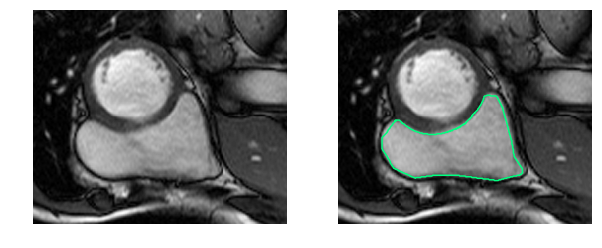
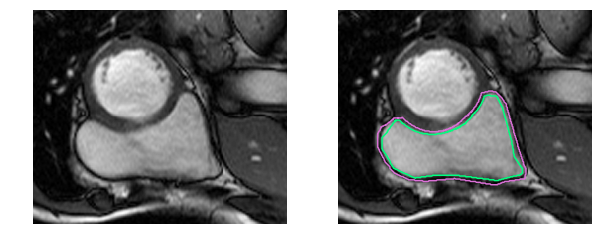
Add boxplots / validation edge cases / formatting.

diff --git a/style.scss b/style.scss
@@ -42,6 +42,7 @@ h1, h2, h3, h4, h5, h6 {
 
   @include mobile {
     line-height: 1.4;
+    text-align: left;
   }
 }
 

diff --git a/_posts/2017-08-22-cardiac-segmentation.md b/_posts/2017-08-22-cardiac-segmentation.md
@@ -42,7 +42,8 @@ ventricle (RV) is more challenging, because of:
 Medical jargon aside, it's just more difficult to identify the RV. The left
 ventricle is a thick-walled circle while the right ventricle is an irregularly
 shaped object with thin walls that sometimes blends in with the surrounding
-tissue:
+tissue. Here are the manually drawn contours for the inner and outer walls
+(endocardium and epicardium) of the right ventricle:
 
 ![data-easy](/images/data-easy.png)
 
@@ -183,7 +184,7 @@ Schematically, we replace the convolutional layers producing the feature maps
 marked in yellow with dilated convolutions in our u-net. The innermost neurons
 now have receptive fields spanning the entire input image.
 
-## Dilated densenets: looking at multiple scales at once
+## Dilated densenets: multiple scales at once
 
 The final architecture we considered is a "dilated densenet". The idea is
 simple: combine dilated convolutions with a dense convolutional network
@@ -215,7 +216,8 @@ image down into small feature maps to generate high-level representations.
 Rather, it retains the same feature map size throughout (we use zero padding),
 and relies on dilated convolutions. In the final convolutional layer, the
 neurons have access to global context as well as features produced at every
-prior scale in the network. In our work, we use an 8-layer dilated densenet.
+prior scale in the network. In our work, we use an 8-layer dilated densenet and
+vary the growth rate from 12 to 32.
 
 Let's see how these architectures perform when segmenting right ventricles.
 
@@ -250,7 +252,7 @@ Rounding isn't a differentiable operation and cannot be used as a loss
 function. We use the usual "hard" dice coefficient to report the classification
 performance.
 
-In our training experiments, we varied the following hyperparameters:
+In our training runs, we varied the following hyperparameters:
 * Batch normalization
 * Dropout
 * Learning rate
@@ -258,39 +260,111 @@ In our training experiments, we varied the following hyperparameters:
 
 ## Results
 
-The dilated densenet performed the best, reaching a dice coefficient of 0.87 on
-the validation dataset with only 190K parameters. The results are summarized
-below:
+We estimated human-level performance to be about 0.95 by looking at the quality
+of the provided manual segmentation contours. The leading published model is a
+fully convolutional network (FCN) by Tran
+[[7](https://arxiv.org/abs/1604.00494)] with 0.84 accuracy on the test set. The
+u-net base model performs well, the dilated u-net does better, and the dilated
+densenet performs the best, reaching a dice coefficient of 0.87 on the
+validation dataset with only 190K parameters.
+
+The dice coefficients, along with their uncertainties in parentheses, are
+summarized in the following table. For the endocardium:
 
 | **Method**       | **Train**   | **Val**     | **Test**    | **Params** |
 | :--------------- | :---------- | :---------- | :-------    | :--------- |
 | Human            | 0.95 (0.05) | --          | --          | --         |
-| FCN (published)  | --          | --          | 0.84 (0.21) | ~11M       |
-| U-net            | 0.91 (0.06) | 0.82 (0.23) |             | 1.9M       |
-| Dilated u-net    | 0.92 (0.08) | 0.85 (0.19) |             | 3.7M       |
-| Dilated densenet | 0.91 (0.10) | 0.87 (0.15) |             | 0.19M      |
+| FCN (Tran 2017)  | --          | --          | 0.84 (0.21) | ~11M       |
+| U-net            | 0.91 (0.06) | 0.82 (0.23) | TBD         | 1.9M       |
+| Dilated u-net    | 0.92 (0.08) | 0.85 (0.19) | TBD         | 3.7M       |
+| Dilated densenet | 0.91 (0.10) | 0.87 (0.15) | TBD         | 0.19M      |
+
+For the epicardium:
+
+| **Method**       | **Train**   | **Val**     | **Test**    | **Params** |
+| :--------------- | :---------- | :---------- | :-------    | :--------- |
+| Human            | 0.95 (0.05) | --          | --          | --         |
+| FCN (Tran 2017)  | --          | --          | 0.86 (0.20) | ~11M       |
+| U-net            | 0.93 (0.07) | 0.86 (0.17) | TBD         | 1.9M       |
+| Dilated u-net    | 0.94 (0.05) | 0.90 (0.14) | TBD         | 3.7M       |
+| Dilated densenet | 0.94 (0.04) | 0.89 (0.15) | TBD         | 0.19M      |
+
+Typical learning curves are shown below. For all architectures, we used the
+adam optimizer with the default initial learning rate of $$10^{-3}$$ and
+trained for 500 epochs. Each image in the dataset was individually normalized
+by subtracting its mean and dividing by its standard deviation. We used the
+unweighted pixel-wise cross entropy as the loss function. Dropout was turned
+off, and pre-activation batch normalization was used only for the dilated
+densenet. The dilated densenet had a growth rate of 24. We used a batch size of
+32, except for the dilated densenet, which required a batch size of 3 on our
+16GB GPU due to memory constraints. In all cases, the validation loss plateaus
+and does not exhibit an upturn characteristic of overfitting.
 
 ![learning-curves](/images/learning-curves-aaug.png)
 
-We use the adam optimizer and train for at least 500 epochs. The dataset was
-normalized by subtracting each image by its mean and dividing by its standard
-deviation.
+On a per epoch basis, we were astounded to find that the dilated densenet
+learns extremely quickly relative to the u-net and dilated u-net, likely
+because the dense connections facilitate gradient propagation. It is also
+extremely parameter efficient, reaching state of the art performance with
+60$$\times$$ less parameters than the FCN.
 
-## Future: two directions
+In our results, as well as in the published literature, the accuracies exhibit
+large uncertainties. Boxplots show that for some images, the networks struggle
+to segment the RV to any extent:
 
-Likely as a result of my physics background, I've always been fascinated by how
-behavior arises as we change the *scale* on which we probe a system. My
-intuition is that dilated convolutions construct features at multiple length
-scales. However, as opposed to systems which are scale invariant, like an Ising
-model at its critical point,
+![boxplots](/images/boxplots-eaug.png)
+
+Examining the outliers, we find they mostly arise from apical slices (near the
+bottom tip) of the heart where the RV is difficult to identify.
+
+
+[Create box plot, then look at the points which have zero dice and create
+strategy to fix. Propose pre-training model on apical slices only.]
+
+[Quantify variation with dropout and batch norm]
+
+[Quantify variation with growth rate]
+
+[Quantify finishing with dice coefficient]
+
+## Summary and future directions
+
+I was happy to be able to create deep learning models that could perform at the
+state of the art in cardiac segmentation. Here are my opinions on future
+directions:
+
+* Explore models with greater expressive power to reduce bias, creating
+  additional "breathing room" to reduce variance and improve performance.
+* Perhaps pretrain model on subset of data consisting of apical slices, or more
+  strongly weight this data, to avoid failure on outliers.
+* Explore quasi-3D models where the entire stack of registered cardiac slices
+  are simultaneously fed into the model.
+* Explore multistep (localization, registration, segmentation) pipelines.
+* In developing a production system, we will need to optimize for the final
+  figure of merit, which is the systolic and diastolic right ventricle volumes,
+  rather than the dice coefficients of the individual slices.
+
+Regarding model architectures, I was astounded by the parameter efficiency and
+accuracy of dilated densenets, and I am particularly excited to see how well
+they perform on standard segmentation tasks.
+
+* Explore dilated densenet architectures: additional convolutional layers at
+  each scale, or a mirror stack of convolution layers with dilation factors may
+  help performance.
+* Memory efficient dilated densenets: densely connected networks are notorious
+  for requiring immense ammounts of memory. The raw TensorFlow is particularly
+  egregious, limiting us to 8 layers with a batch size of 3 images on a 16GB
+  GPU. Switching to the recently-proposed memory efficient implementation
+  [[8](https://arxiv.org/abs/1707.06990)], would allow for deeper
+  architectures.
 
 ## About this project
 
-The [Insight Artificial Intelligence Fellows Program](http://insightdata.ai) is
-an intense, 7-week experience where fellows already possessing deep technical
-expertise are provided an environment to bridge the small skills gap needed to
-enter the AI field. A major component of bridging that gap involves completing
-a project in deep learning in order to gain hands-on experience in AI.
+The Insight AI Fellows Program is an intense, 7-week experience where fellows
+already possessing deep technical expertise are provided an environment to
+bridge the small skills gap needed to enter the AI field. A major component of
+bridging that gap involves completing a project in deep learning in order to
+gain hands-on experience in AI.
 
 As a relative novice to deep learning, I approached project selection like a
 new graduate student: choose a clearly motivated and well scoped problem that
